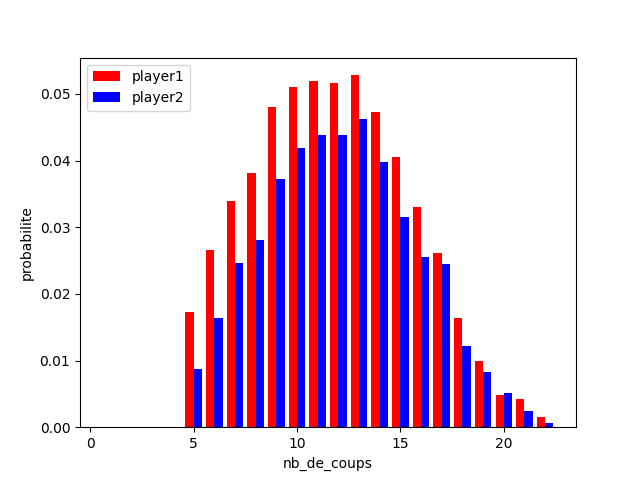
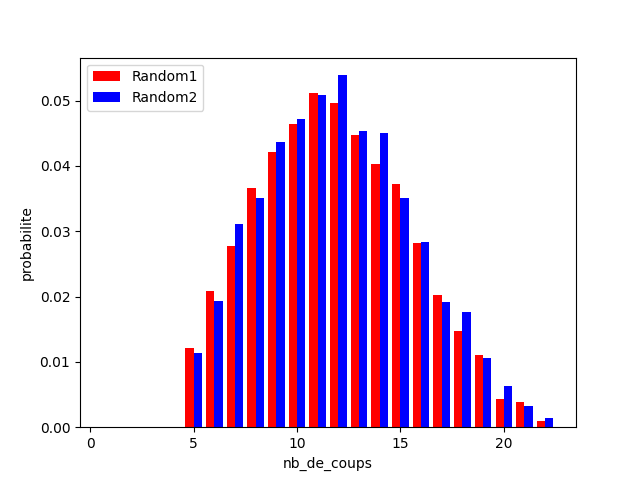
main

diff --git a/combinatorics/main.py b/combinatorics/main.py
@@ -25,7 +25,10 @@ def count_and_analyze(player1,player2,num_round=100):
     nb_tie = 0 #nobody win the game
 
     for i in range(0,num_round):
-        result = oneGame.run(player1,player2,showChessBoard=False)
+        if i%2 == 0:
+            result = oneGame.run(player1,player2,showChessBoard=False)
+        else:
+            result = oneGame.run(player2,player1,showChessBoard=False)
         if not result == 0 :
             if result.signal == player1.signal:
                 countWin_player1[result.nbStep] += 1
@@ -52,25 +55,25 @@ def count_and_analyze(player1,player2,num_round=100):
 def part1():
     #print(np.size(oneGame.get_win_board(),0))
     #on a une liste de 69 quadruplets de cases
-    player1 = RandomPlayer(signal=PLAYER1, name="YK")
-    player2 = RandomPlayer(signal=PLAYER2, name="GYH")
+    player1 = RandomPlayer(signal=PLAYER1, name="Random1")
+    player2 = RandomPlayer(signal=PLAYER2, name="Random2")
     count_and_analyze(player1,player2,10000)
 
 def part2():
     #MonteCarlo VS Random:
-    # player1 = MonteCarloPlayer(signal=PLAYER1, name="YK")
-    # player2 = RandomPlayer(signal=PLAYER2, name="GYH")
-    # count_and_analyze(player1,player2,100)
+    player1 = MonteCarloPlayer(signal=PLAYER1, name="MonteCarlo")
+    player2 = RandomPlayer(signal=PLAYER2, name="Random")
+    count_and_analyze(player1,player2,100)
     #MontreCarlo VS MontreCarlo:
-    player1 = MonteCarloPlayer(signal=PLAYER1, name="YK")
-    player2 = MonteCarloPlayer(signal=PLAYER2, name="GYH")
+    player1 = MonteCarloPlayer(signal=PLAYER1, name="MonteCarlo1")
+    player2 = MonteCarloPlayer(signal=PLAYER2, name="MonteCarlo2")
     count_and_analyze(player1,player2,100)
 
 def part3():
     #MonteCarlo VS UCTPlayer:
-    player1 = MonteCarloPlayer(signal=PLAYER1, name="Monte Carlo", simulation_times=100)
+    player1 = MonteCarloPlayer(signal=PLAYER1, name="MonteCarlo", simulation_times=100)
     player2 = UCTPlayer(signal=PLAYER2, name="UCT",  simulation_times=100 ,first=20)
-    count_and_analyze(player2,player1,100)
+    count_and_analyze(player1,player2,200)
 
 if __name__ == "__main__":
     # part1()
